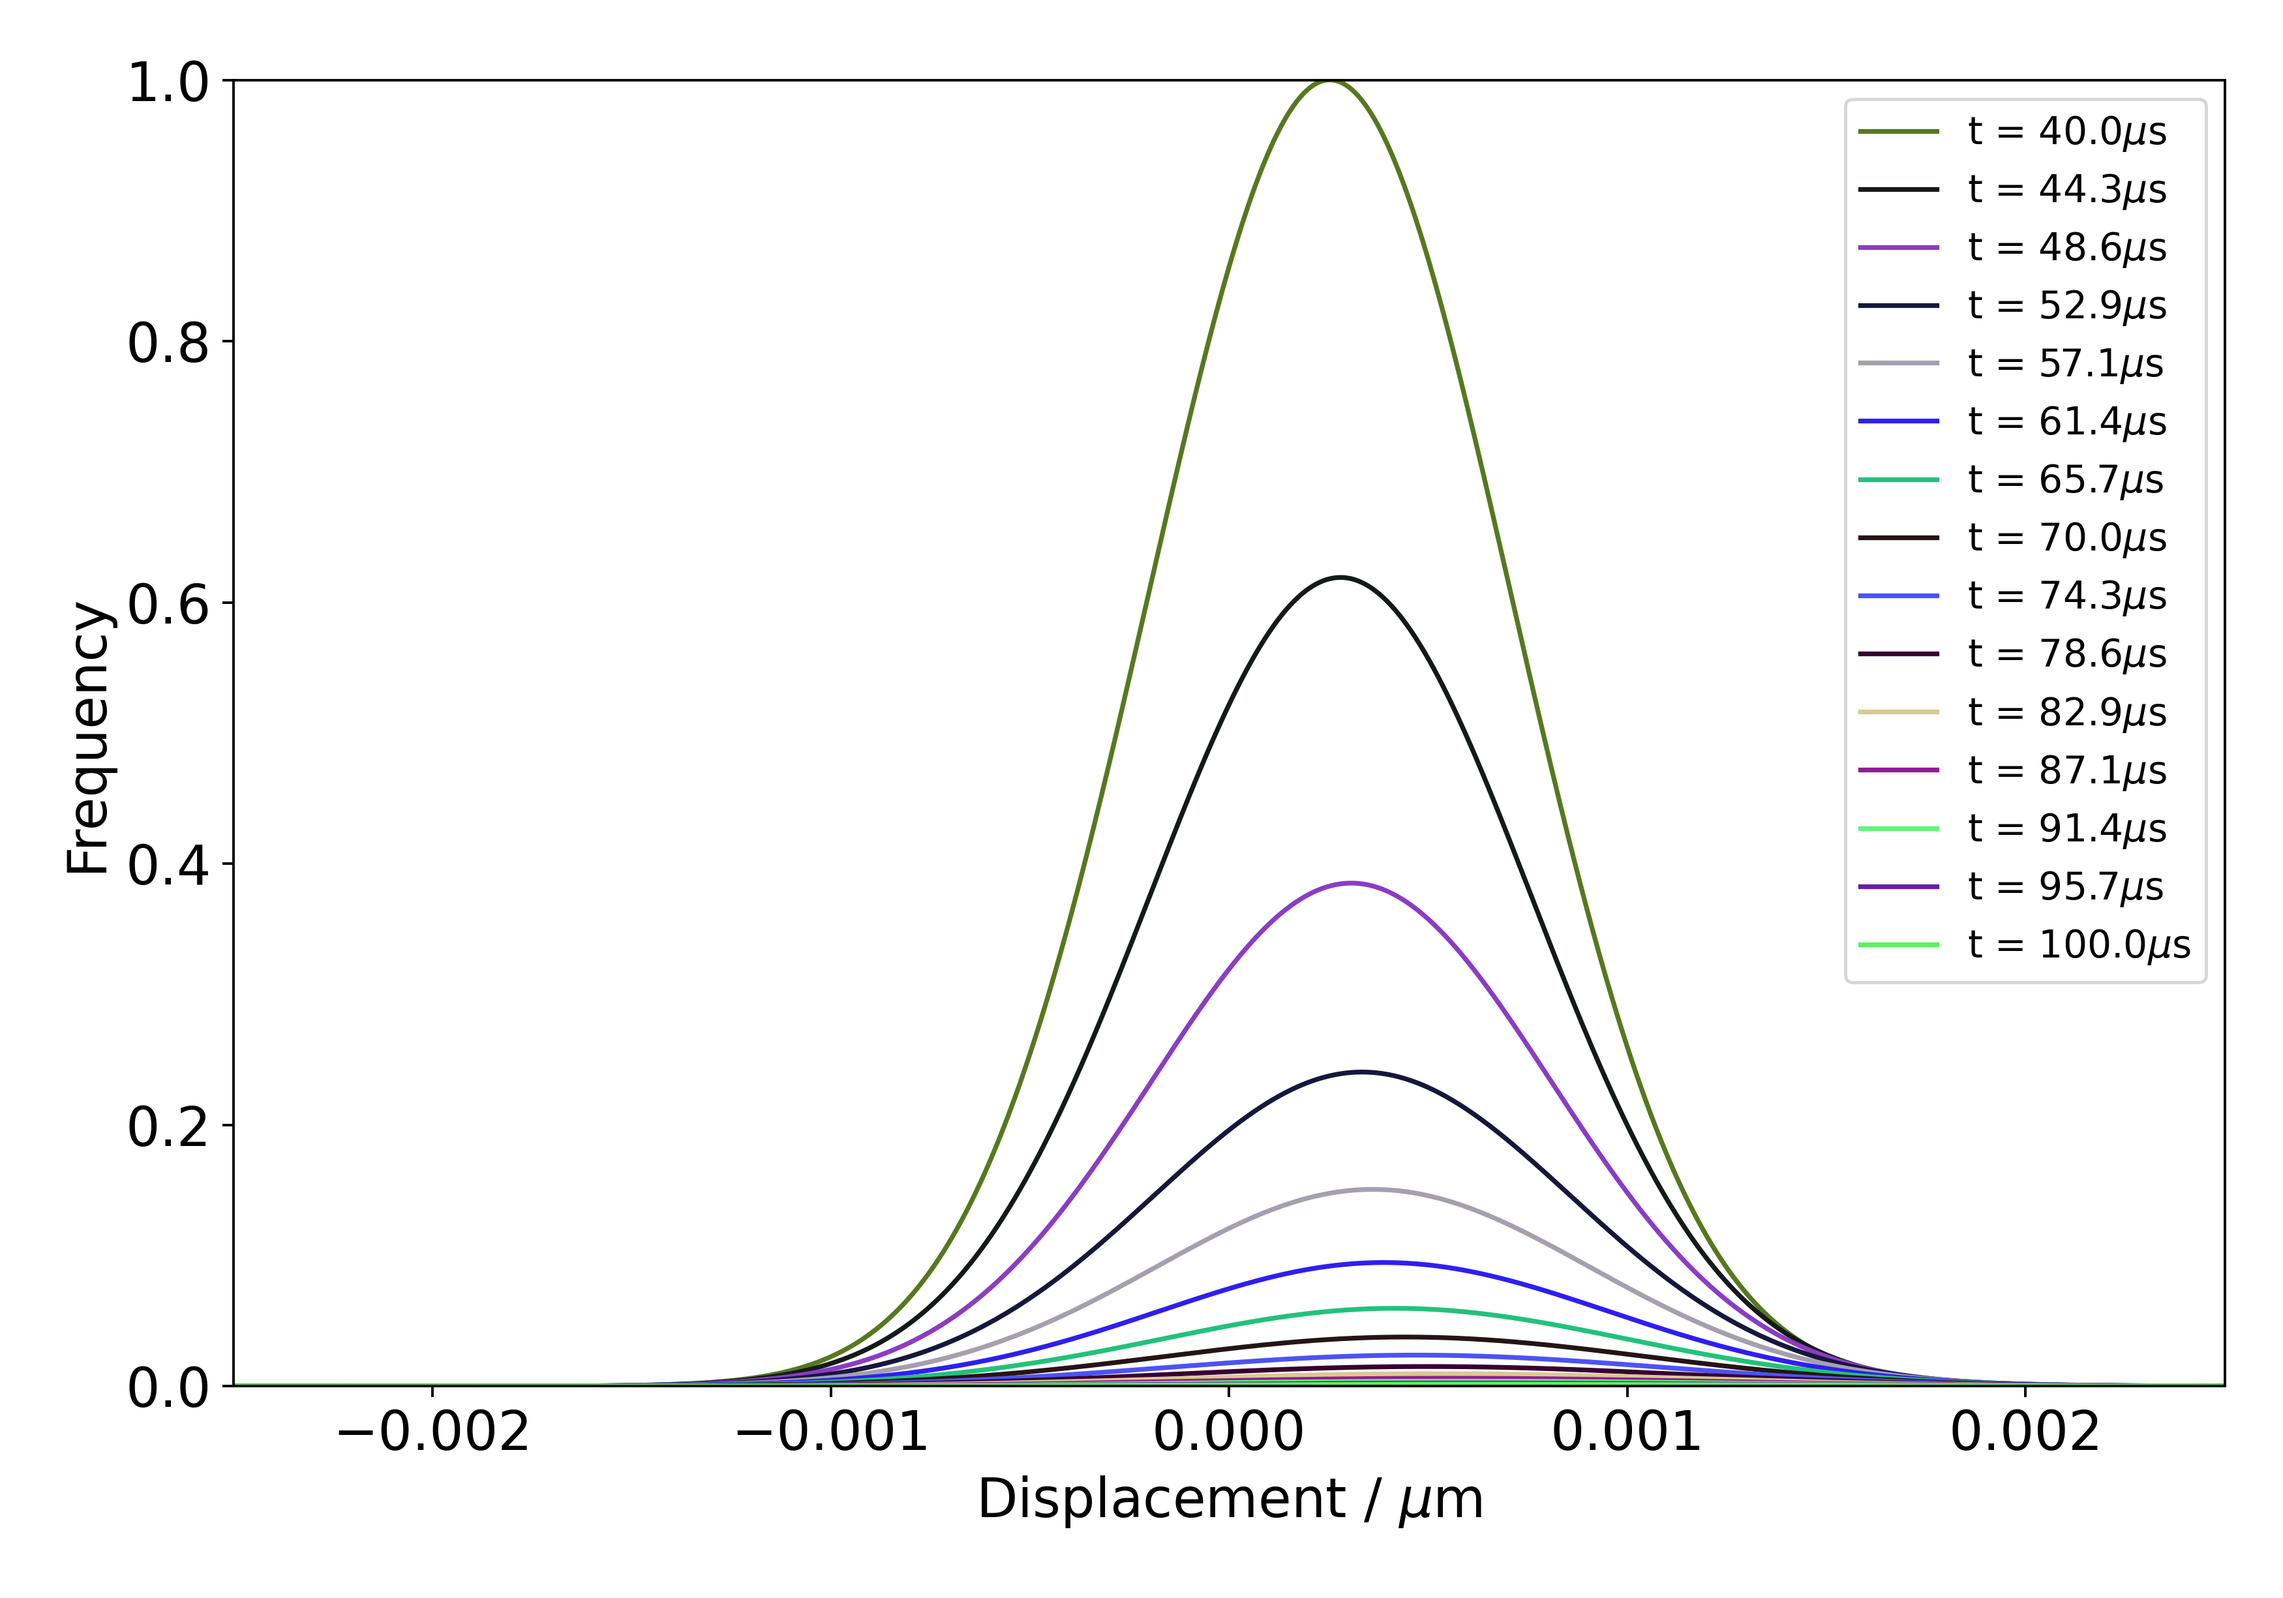
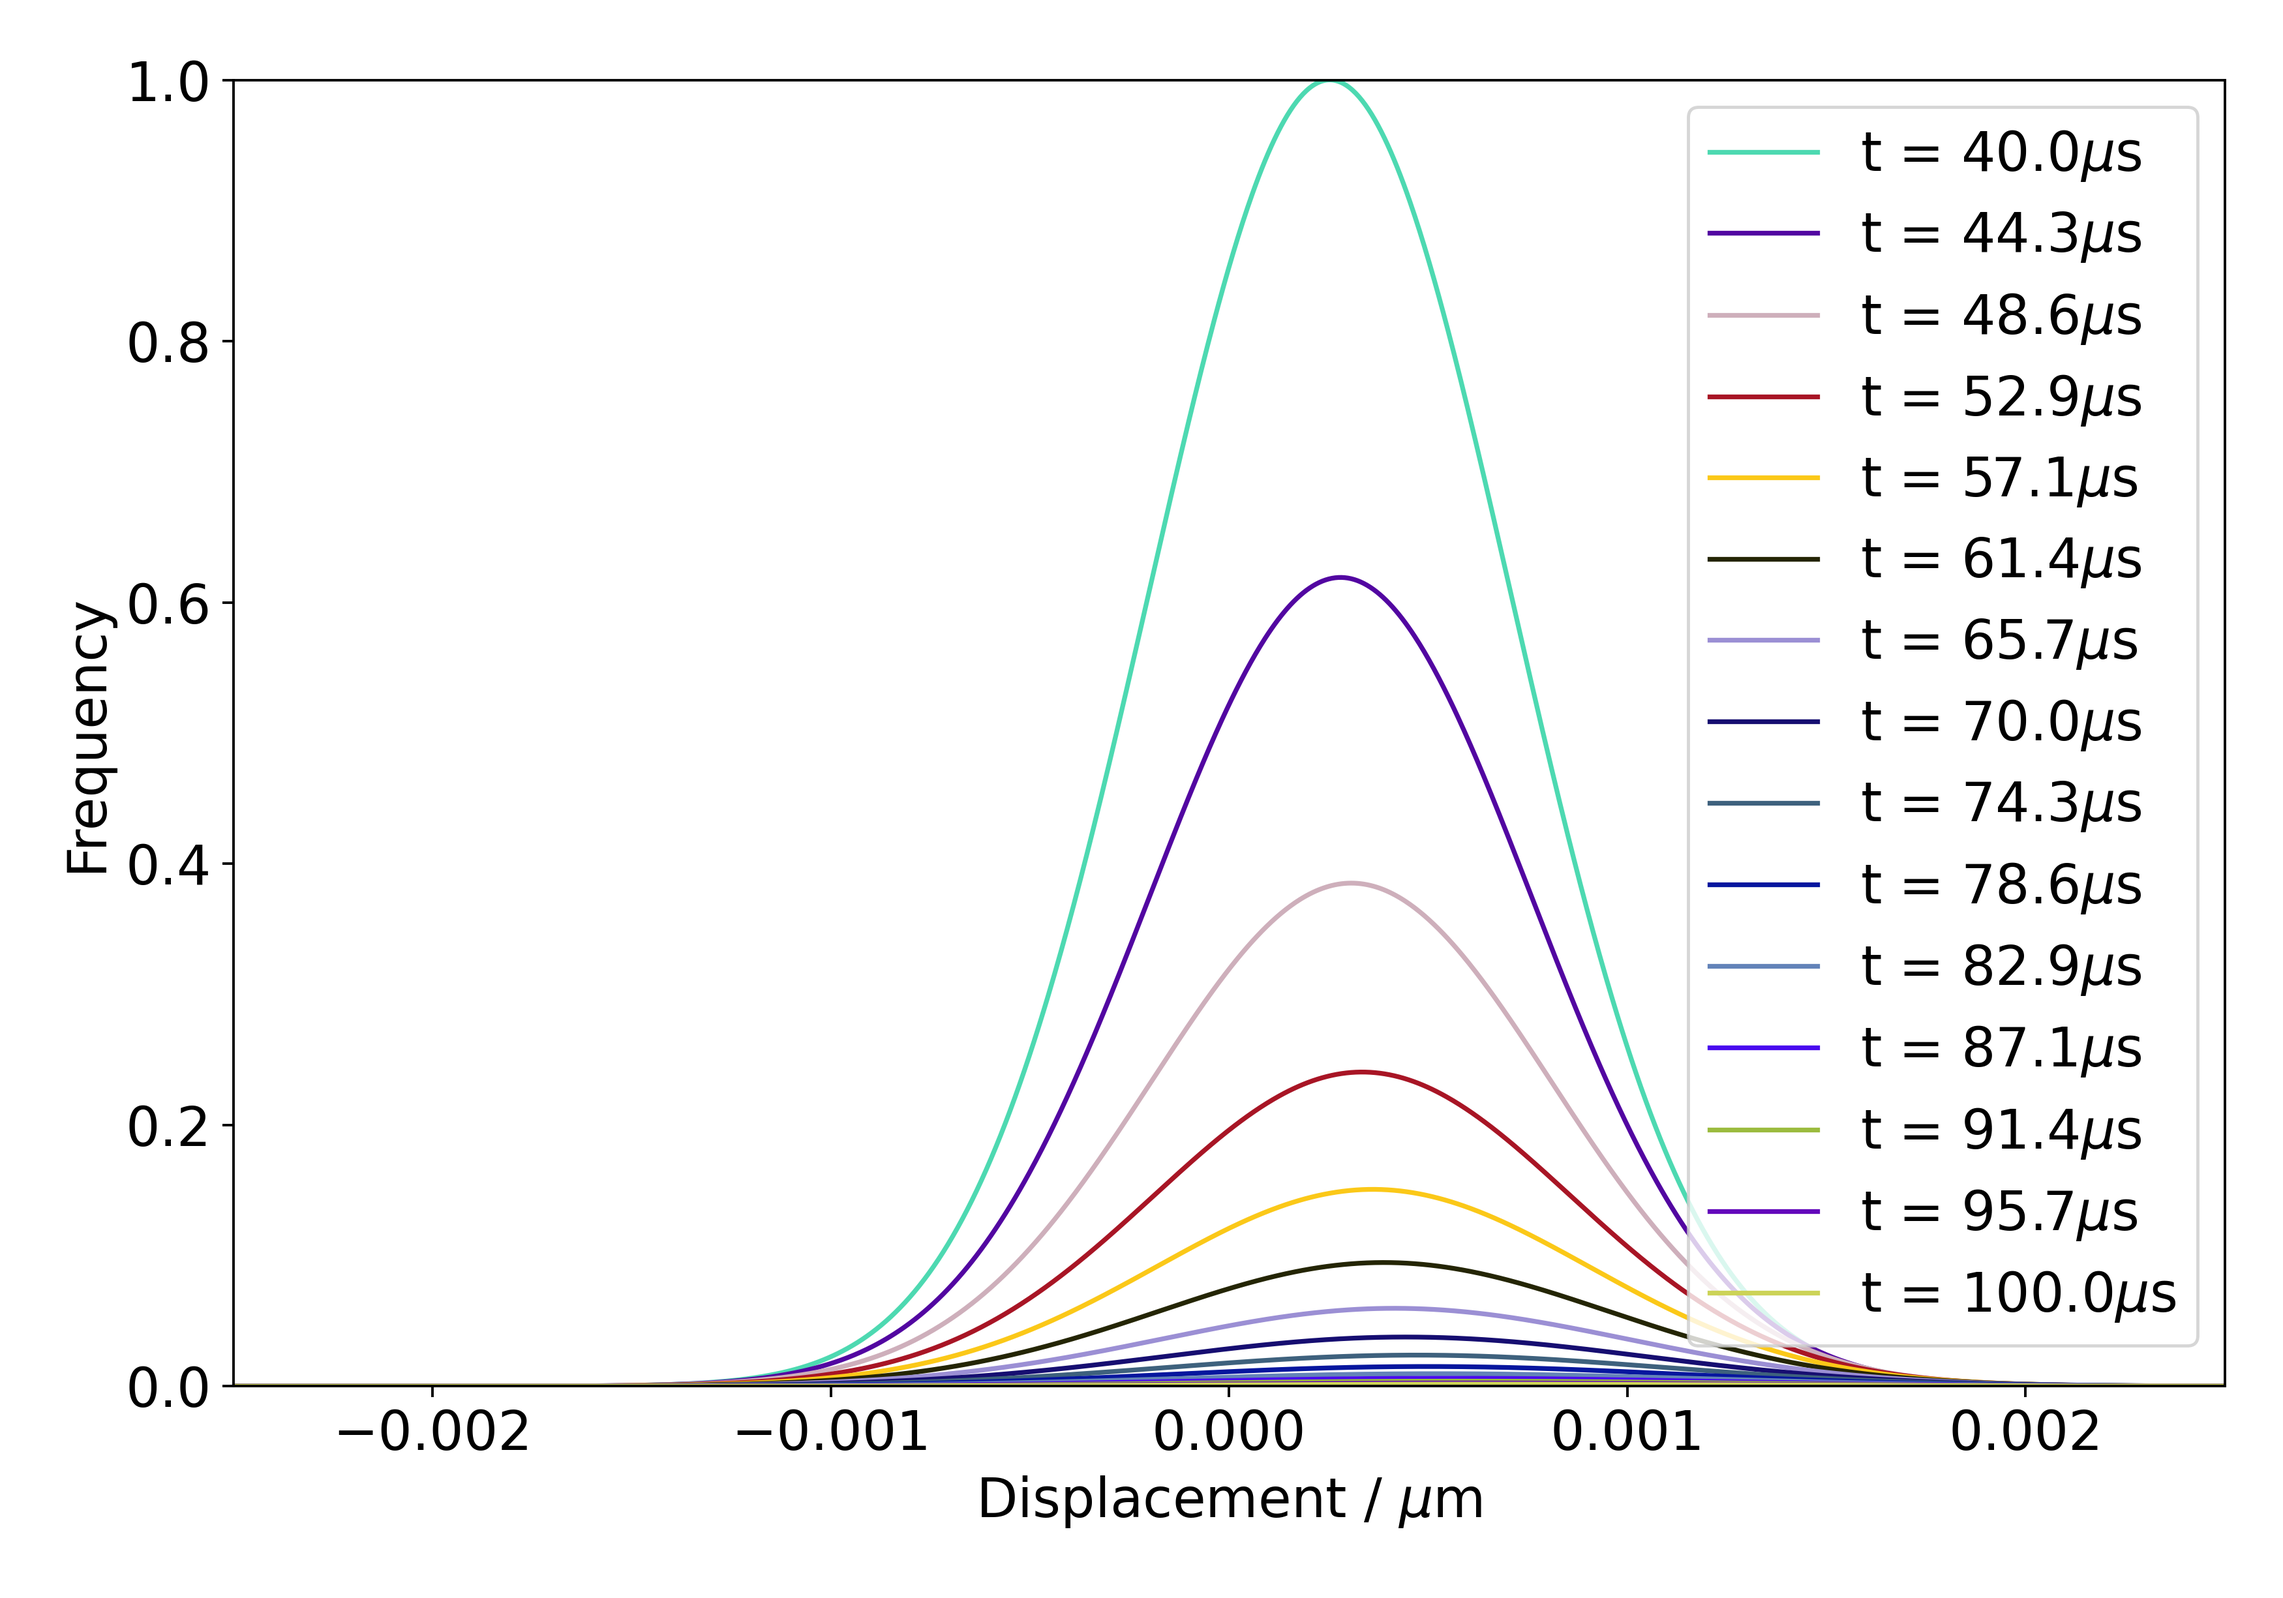
Increase legend font size

diff --git a/src/brains.py b/src/brains.py
@@ -110,7 +110,7 @@ class Brains():
         Plots the graphs.
         """
 
-        self.dopant_mobility.plot_graph(self.dopant_mobility.temp_list, self.dopant_mobility.mobility(self.dopant_mobility.temp_list), xlims=(250, 400), ylims=(0, 2e3), marker="None", ls="-")
+        self.dopant_mobility.plot_graph(dict(zip(self.dopant_mobility.temp_list, self.dopant_mobility.mobility(self.dopant_mobility.temp_list))), xlims=(250, 400), ylims=(0, 2e3), marker="None", ls="-", labels=["Mobility"])
         
         list_steps = [i for i in range(200, 2001, 400)]
         dict1 = self.normalise_dict(self.random.random_walk(1000, 50))

diff --git a/src/plotter.py b/src/plotter.py
@@ -227,7 +227,7 @@ class Plotter():
         ax.set_ylim(ylims)
         ax.set_xlabel(self.xlabel)
         ax.set_ylabel(self.ylabel)
-        ax.legend(loc=1,fontsize=12)
+        ax.legend(loc=1)
 
         self.fig.tight_layout()
         self.fig.savefig(f"plots/{self.figname}.png", dpi=350)
